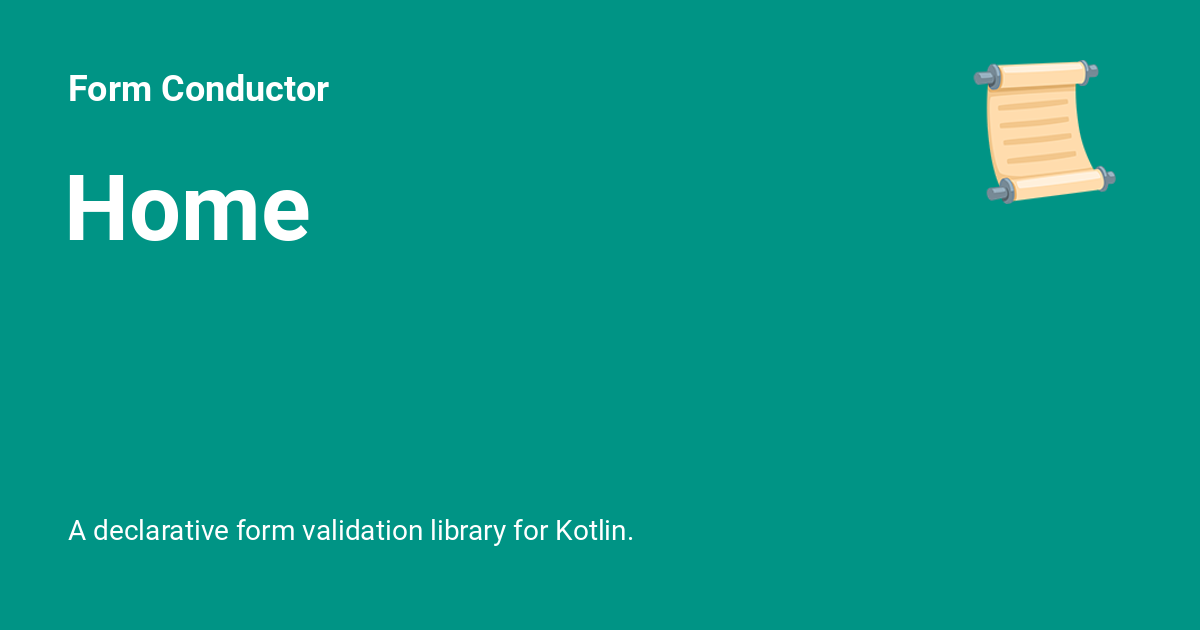
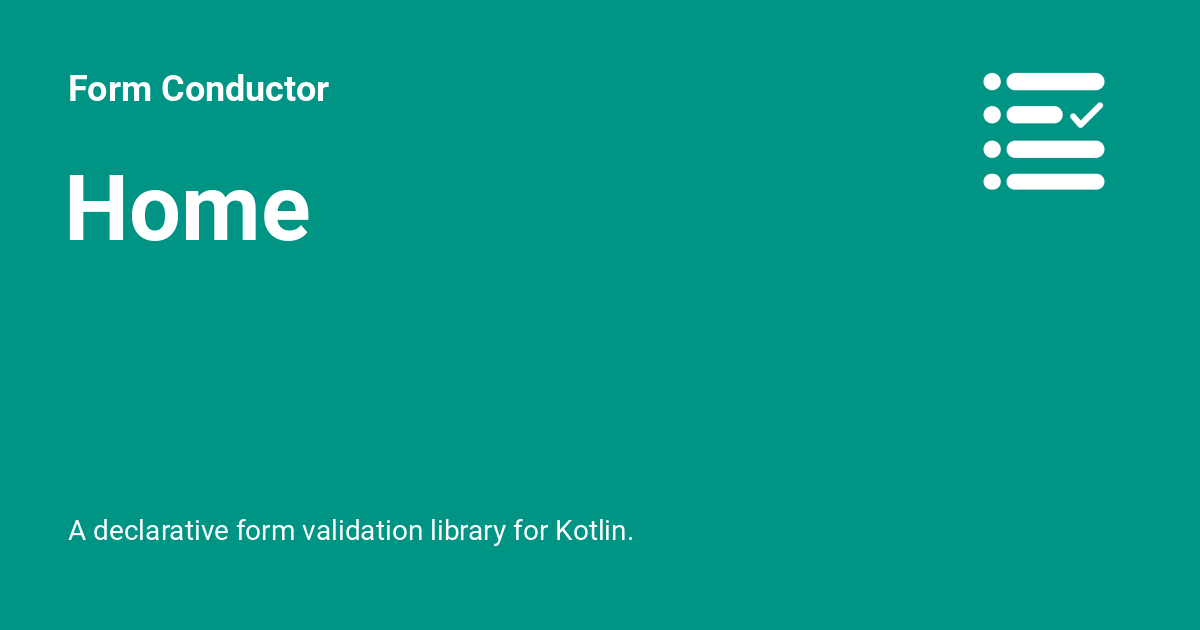
deploy: c5e42e2c9184e8859c11f474a9eaa1cd7bd27130

Changed region(s): [[0.8017, 0.0905, 0.925, 0.3317]]

diff --git a/index.html b/index.html
@@ -114,7 +114,7 @@
   <nav class="md-header__inner md-grid" aria-label="Header">
     <a href="." title="Form Conductor" class="md-header__button md-logo" aria-label="Form Conductor" data-md-component="logo">
       
-  <img src="assets/scroll.png" alt="logo">
+  <img src="assets/logo_mono_transparent.png" alt="logo">
 
     </a>
     <label class="md-header__button md-icon" for="__drawer">
@@ -231,7 +231,7 @@
   <label class="md-nav__title" for="__drawer">
     <a href="." title="Form Conductor" class="md-nav__button md-logo" aria-label="Form Conductor" data-md-component="logo">
       
-  <img src="assets/scroll.png" alt="logo">
+  <img src="assets/logo_mono_transparent.png" alt="logo">
 
     </a>
     Form Conductor
@@ -431,7 +431,16 @@
   </a>
 
 
-<h1 id="form-conductor">📜 Form Conductor</h1>
+<!-- <p align="center" size="200px">
+  <img src="assets/logo.png" />
+</p> -->
+
+<!-- <div style="text-align:center"><img width="20%" src="assets/logo.png"/><br/><br/><br/></div>
+
+![Image](assets/logo.png "Form Conductor") -->
+
+<p><img src="assets/logo_transparent.png" alt="alt text" width="150"/></p>
+<h1 id="form-conductor">Form Conductor</h1>
 <p>A declarative form validation library for Kotlin.</p>
 <p>Form conductor is more than form validation. It provides a handful of reusable API to construct a form in simple easy steps.
 Form conductor tries to tackle three aspects of forms: 
@@ -440,8 +449,9 @@ Form conductor tries to tackle three aspects of forms:
 - <code>Form Validation</code></p>
 <p><br/></p>
 <p><img alt="JitPack" src="https://img.shields.io/jitpack/version/com.github.NaingAungLuu/form-conductor?style=for-the-badge" />
-<img alt="GitHub" src="https://img.shields.io/github/license/NaingAungLuu/form-conductor?style=for-the-badge" />
+<img alt="Codecov" src="https://img.shields.io/codecov/c/github/NaingAungLuu/form-conductor?style=for-the-badge&amp;token=KC7CK5DOZZ" />
 <img alt="GitHub issues" src="https://img.shields.io/github/issues/NaingAungLuu/form-conductor?style=for-the-badge" />
+<img alt="GitHub" src="https://img.shields.io/github/license/NaingAungLuu/form-conductor?style=for-the-badge" />
 <img alt="GitHub last commit" src="https://img.shields.io/github/last-commit/NaingAungLuu/form-conductor?style=for-the-badge" /></p>
 <!-- ## Table of contents
 

diff --git a/installation/index.html b/installation/index.html
@@ -114,7 +114,7 @@
   <nav class="md-header__inner md-grid" aria-label="Header">
     <a href=".." title="Form Conductor" class="md-header__button md-logo" aria-label="Form Conductor" data-md-component="logo">
       
-  <img src="../assets/scroll.png" alt="logo">
+  <img src="../assets/logo_mono_transparent.png" alt="logo">
 
     </a>
     <label class="md-header__button md-icon" for="__drawer">
@@ -231,7 +231,7 @@
   <label class="md-nav__title" for="__drawer">
     <a href=".." title="Form Conductor" class="md-nav__button md-logo" aria-label="Form Conductor" data-md-component="logo">
       
-  <img src="../assets/scroll.png" alt="logo">
+  <img src="../assets/logo_mono_transparent.png" alt="logo">
 
     </a>
     Form Conductor

diff --git a/404.html b/404.html
@@ -79,7 +79,7 @@
   <nav class="md-header__inner md-grid" aria-label="Header">
     <a href="/." title="Form Conductor" class="md-header__button md-logo" aria-label="Form Conductor" data-md-component="logo">
       
-  <img src="/assets/scroll.png" alt="logo">
+  <img src="/assets/logo_mono_transparent.png" alt="logo">
 
     </a>
     <label class="md-header__button md-icon" for="__drawer">
@@ -194,7 +194,7 @@
   <label class="md-nav__title" for="__drawer">
     <a href="/." title="Form Conductor" class="md-nav__button md-logo" aria-label="Form Conductor" data-md-component="logo">
       
-  <img src="/assets/scroll.png" alt="logo">
+  <img src="/assets/logo_mono_transparent.png" alt="logo">
 
     </a>
     Form Conductor
